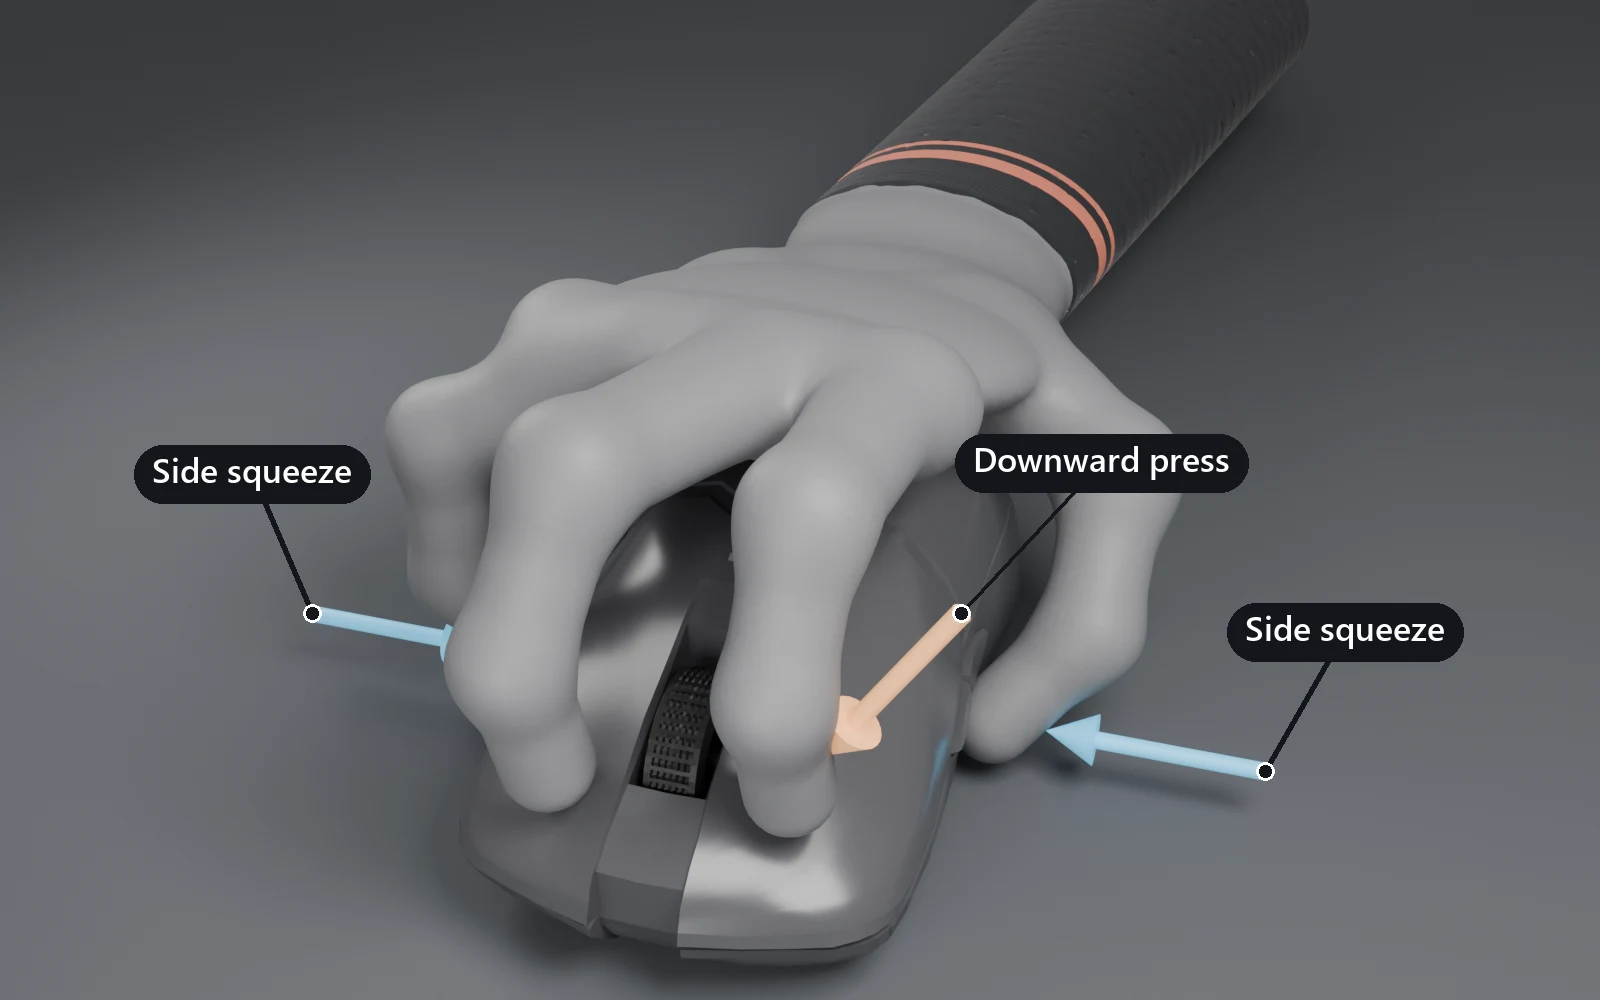
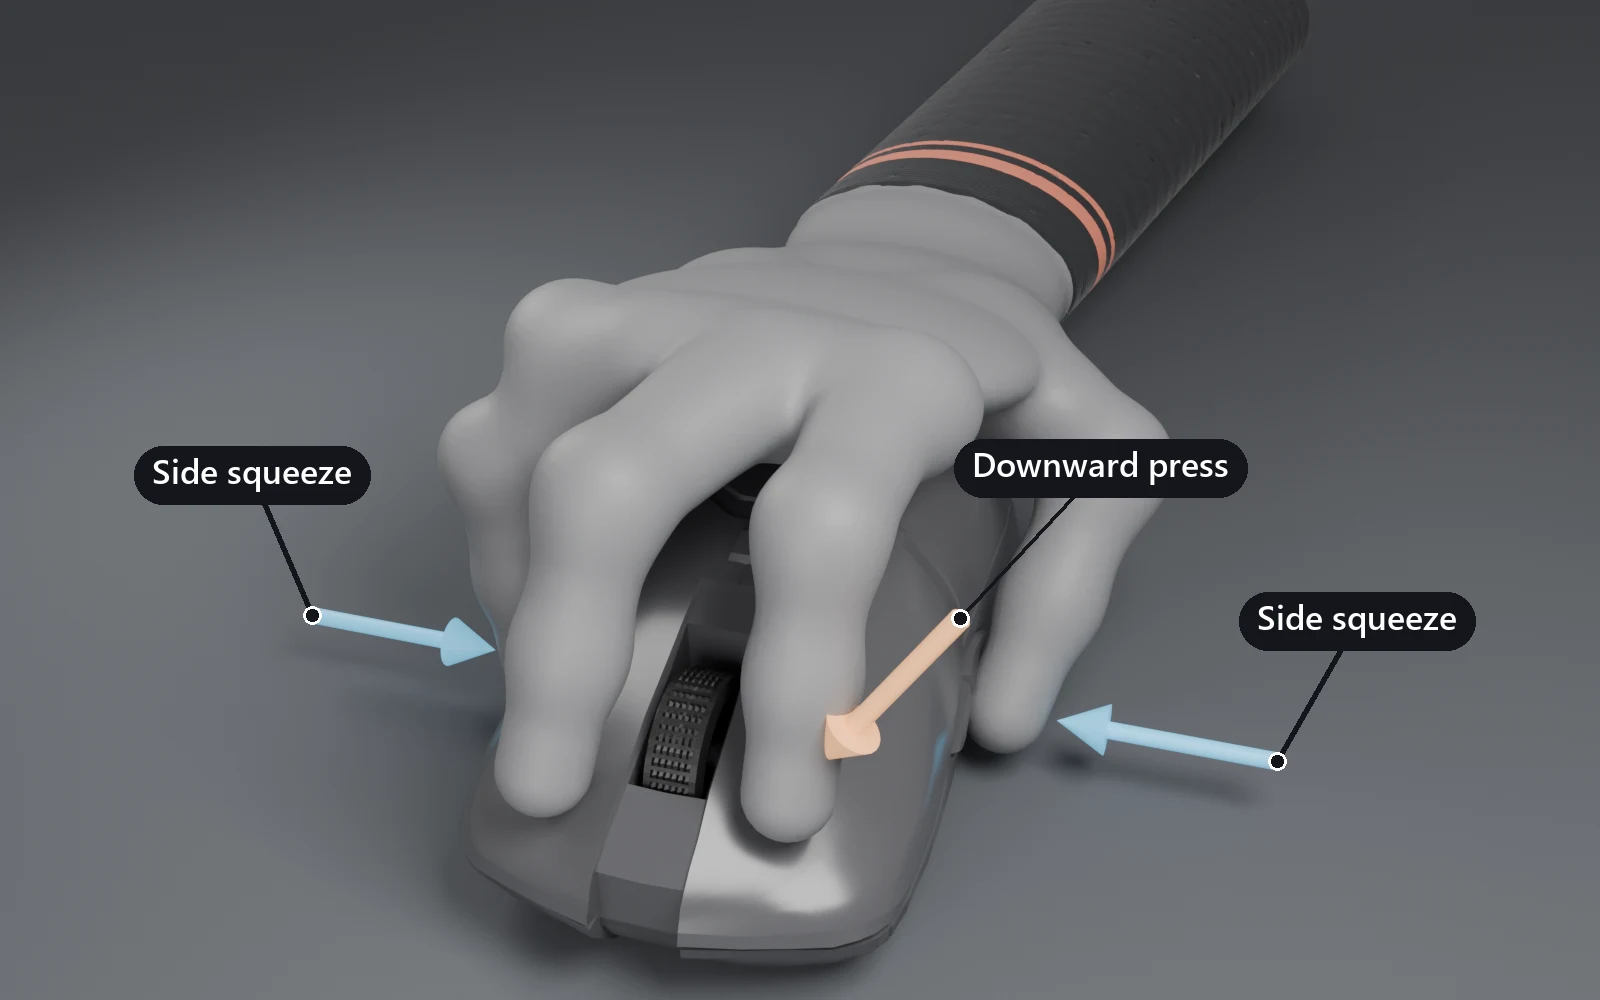
docs: shorten the fingers in the grip renders
Render the fingers at 85% of an adult hand's phalanx lengths and the thumb at 91%, both set
as constants. The joint nearest each tip stays straight, so fingers rest on their pads instead
of hooking. Move the fingertips label off the index finger.

diff --git a/scripts/figures/tension/hand_scene.py b/scripts/figures/tension/hand_scene.py
@@ -129,7 +129,8 @@ def finger_chain(base, target, lengths, bend):
     """Joints from base to target for a finger that only flexes toward `bend`.
 
     Segment directions are cos(a)*forward + sin(a)*bend, with cumulative angles knuckle,
-    knuckle + middle and knuckle + middle * 5/3, as the last two joints of a finger move together.
+    knuckle + middle and knuckle + middle again: the joint nearest the tip stays straight, so the
+    finger bends at two joints and rests on its pad.
     """
     base, target = Vector(base), Vector(target)
     b = Vector(bend).normalized()
@@ -139,7 +140,7 @@ def finger_chain(base, target, lengths, bend):
     best = None
     for knuckle in range(-35, 71):
         for middle in range(0, 101):
-            angles = (knuckle, knuckle + middle, knuckle + middle * 5 / 3)
+            angles = (knuckle, knuckle + middle, knuckle + middle)
             px = sum(l * math.cos(math.radians(a)) for l, a in zip(lengths, angles))
             py = sum(l * math.sin(math.radians(a)) for l, a in zip(lengths, angles))
             err = (px - goal[0]) ** 2 + (py - goal[1]) ** 2 + 0.003 * middle
@@ -152,6 +153,9 @@ def finger_chain(base, target, lengths, bend):
     return pts
 
 
+# Phalanx lengths below are an adult hand's; the render uses them at FINGER_LENGTH, and the thumb at
+# THUMB_LENGTH, so the fingers do not dwarf the mouse.
+FINGER_LENGTH, THUMB_LENGTH = 0.85, 0.91
 # name: knuckle offset across the palm, knuckle offset back along F, phalanx lengths,
 # radii at knuckle / middle / tip, fingertip contact as a function of fingertip radius.
 FINGERS = {
@@ -183,6 +187,7 @@ def build_skeleton():
     for name, (dx, back, lengths, radii, contact) in FINGERS.items():
         radii = [v * 1.18 for v in radii]
         knuckle = PALM_FRONT - F * back + X * dx - U * 0.05
+        lengths = [v * FINGER_LENGTH for v in lengths]
         pts = finger_chain(knuckle, contact(radii[2]), lengths, (0, 0, -1))
         joints[name] = (pts, radii)
         r = (radii[0], radii[1], radii[2], radii[2] * 0.92)
@@ -190,6 +195,7 @@ def build_skeleton():
             elements.append(("capsule", (pts[i], pts[i + 1], (r[i] + r[i + 1]) / 2)))
     lengths, radii, contact = THUMB
     radii = [v * 1.15 for v in radii]
+    lengths = [v * THUMB_LENGTH for v in lengths]
     pts = finger_chain(THUMB_BASE, contact(radii[2]), lengths, (1, 0.1, -0.55))
     joints["thumb"] = (pts, radii)
     r = (radii[0], radii[1], radii[2], radii[2] * 0.92)

diff --git a/scripts/figures/tension/build.py b/scripts/figures/tension/build.py
@@ -32,7 +32,7 @@ import diagrams as d  # noqa: E402
 # name: (scene arguments, labels as anchor, text, offset x, offset y in render pixels)
 RENDERS = {
     "grip-zones": (["--view", "front"], [
-        ("fingers", "Fingertips  ·  micro-corrections", -80, 330),
+        ("fingers", "Fingertips  ·  micro-corrections", -110, -270),
         ("wrist", "Wrist  ·  narrow, smooth motion", 160, 300),
         ("arm", "Forearm and shoulder  ·  wide, fast motion", -520, -80),
     ]),
